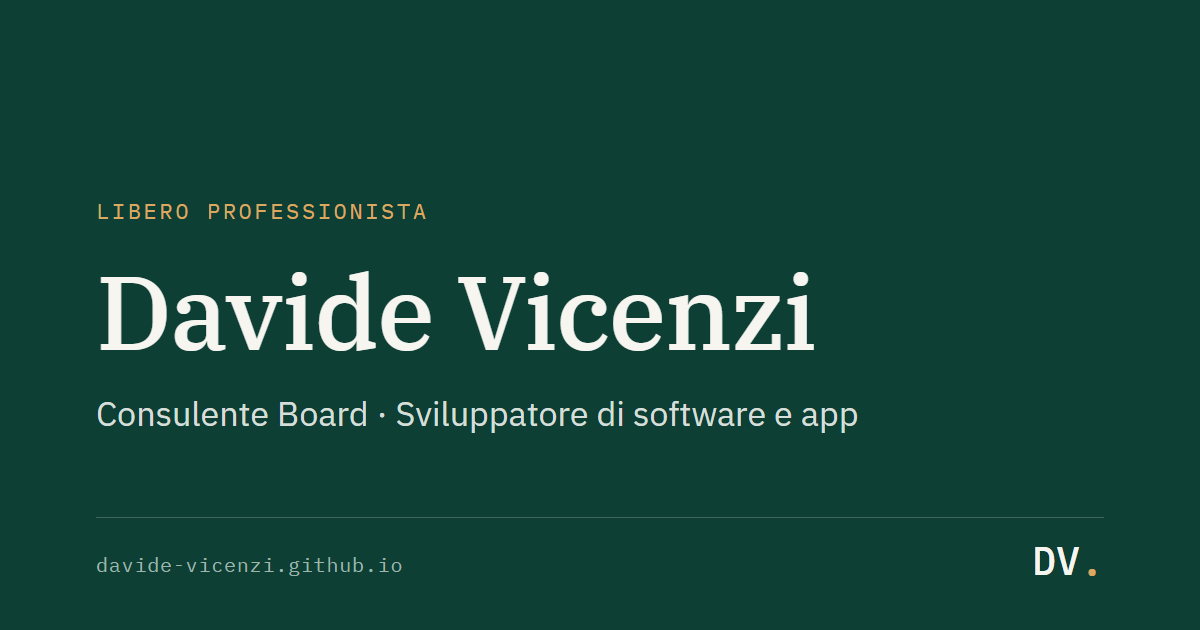
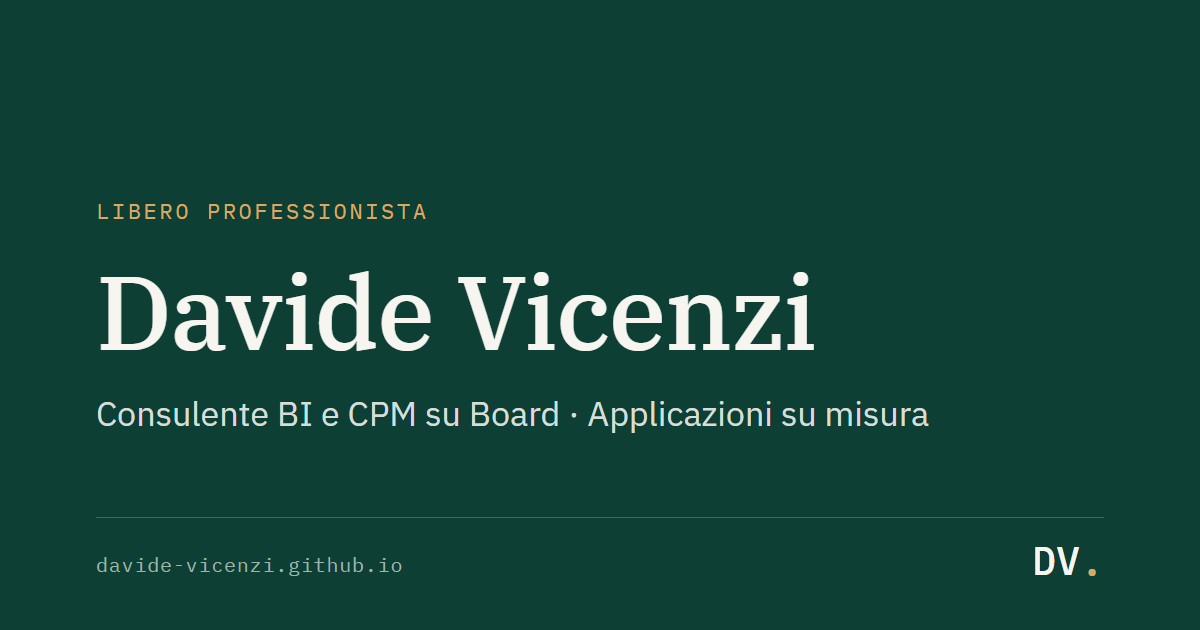
Riallinea i testi della home e l'immagine di anteprima al posizionamento

Changed region(s): [[0.2467, 0.6333, 0.7708, 0.6937]]

diff --git a/index.html b/index.html
@@ -3,21 +3,21 @@
 <head>
 <meta charset="UTF-8">
 <meta name="viewport" content="width=device-width, initial-scale=1.0">
-<title>Davide Vicenzi — Consulente Board e sviluppatore di software e app</title>
-<meta name="description" content="Davide Vicenzi, libero professionista: consulenza di Business Intelligence e Corporate Performance Management su piattaforma Board e sviluppo di software e app su misura.">
+<title>Davide Vicenzi — Consulenza BI e CPM su Board e applicazioni su misura</title>
+<meta name="description" content="Consulenza di Business Intelligence e Corporate Performance Management su Board. Come servizio complementare, applicazioni su misura per calcolo e gestione.">
 
 <!-- Open Graph / LinkedIn — l'immagine og-image.png va caricata nella root del repository GitHub -->
 <meta property="og:type"        content="website">
 <meta property="og:url"         content="https://davide-vicenzi.github.io/">
-<meta property="og:title"       content="Davide Vicenzi — Consulente Board e sviluppatore di software e app">
-<meta property="og:description" content="Consulenza di Business Intelligence e Corporate Performance Management su piattaforma Board e sviluppo di software e app su misura.">
+<meta property="og:title"       content="Davide Vicenzi — Consulenza BI e CPM su Board e applicazioni su misura">
+<meta property="og:description" content="Consulenza di Business Intelligence e Corporate Performance Management su Board. Come servizio complementare, applicazioni su misura per calcolo e gestione.">
 <meta property="og:image"       content="https://davide-vicenzi.github.io/og-image.png">
 <meta property="og:locale"      content="it_IT">
 
 <!-- Twitter / X Card -->
 <meta name="twitter:card"        content="summary_large_image">
-<meta name="twitter:title"       content="Davide Vicenzi — Consulente Board e sviluppatore di software e app">
-<meta name="twitter:description" content="Consulenza di Business Intelligence e Corporate Performance Management su piattaforma Board e sviluppo di software e app su misura.">
+<meta name="twitter:title"       content="Davide Vicenzi — Consulenza BI e CPM su Board e applicazioni su misura">
+<meta name="twitter:description" content="Consulenza di Business Intelligence e Corporate Performance Management su Board. Come servizio complementare, applicazioni su misura per calcolo e gestione.">
 <meta name="twitter:image"       content="https://davide-vicenzi.github.io/og-image.png">
 
 <!-- Favicon -->
@@ -90,20 +90,19 @@
           </div>
         </div>
 
-        <p class="eyebrow">Consulente Board — Sviluppatore di software e app</p>
+        <p class="eyebrow">Consulente BI e CPM su Board — Applicazioni su misura</p>
         <h1>Davide Vicenzi</h1>
         <p class="hero-lead">
-          Progetto soluzioni di pianificazione e Business Intelligence sulla piattaforma Board e sviluppo
-          software e app: applicazioni desktop, web e mobile, dagli strumenti per l'uso quotidiano ai
-          software di calcolo per l'industria. Con il metodo di un ingegnere: prima i numeri, poi
-          l'interfaccia.
+          Progetto soluzioni di pianificazione e Business Intelligence sulla piattaforma Board. Dove un
+          prodotto standard non basta, sviluppo applicazioni su misura che uniscono logica di calcolo e
+          gestione del lavoro. Con il metodo di un ingegnere: prima i numeri, poi l'interfaccia.
         </p>
         <div class="hero-cta">
-          <a class="btn btn-primary" href="#software">
-            Scopri software e app
+          <a class="btn btn-primary" href="#board">
+            Consulenza Board
             <svg class="icon icon-arrow" viewBox="0 0 24 24" aria-hidden="true"><path d="M5 12h14M13 6l6 6-6 6"/></svg>
           </a>
-          <a class="btn btn-outline" href="#board">Consulenza Board</a>
+          <a class="btn btn-outline" href="#software">Software e app</a>
         </div>
       </div>
 
@@ -137,21 +136,21 @@
     <div class="section-inner two-col">
       <div class="col-main reveal">
         <p class="eyebrow"><span class="eyebrow-num">01</span> Chi sono</p>
-        <h2>Board e software, con il metodo di un ingegnere</h2>
+        <h2>BI e CPM su Board, con il metodo di un ingegnere</h2>
 
         <div class="prose">
           <p>
-            Lavoro come libero professionista su due fronti. Il primo è la consulenza sulla piattaforma
-            Board: da gennaio 2026 collaboro con
+            Lavoro come libero professionista nella consulenza di Business Intelligence e Corporate
+            Performance Management sulla piattaforma Board: da gennaio 2026 collaboro con
             <a href="https://www.vspconsulting.it/" target="_blank" rel="noopener" class="inline-link"><strong>VSP Consulting</strong></a>
-            — partner ufficiale Board — su soluzioni di Business Intelligence e Corporate Performance
-            Management: modelli di budget e forecast, reportistica, dashboard.
+            — partner ufficiale Board — su modelli di budget e forecast, reportistica, dashboard.
           </p>
           <p>
-            Il secondo è lo sviluppo di software e app. Progetto e realizzo applicazioni desktop, web e
-            mobile: alcune nascono da un'esigenza personale e diventano prodotti, altre trasformano in
-            strumenti affidabili i calcoli che in azienda vivono ancora su fogli Excel. Le trovi nella
-            sezione <a href="#software" class="inline-link">Software &amp; App</a>.
+            Accanto alla consulenza sviluppo applicazioni su misura, come servizio complementare: portano
+            in un unico strumento la logica di calcolo e la gestione del lavoro che in azienda vivono
+            ancora su fogli Excel. Alcune nascono da un'esigenza personale e sono già in uso: le trovi
+            nella sezione <a href="#software" class="inline-link">Software &amp; App</a>. Altre sono
+            strumenti di calcolo ancora in sviluppo.
           </p>
           <p>
             Il metodo viene dall'ingegneria. Mi sono laureato in Ingegneria Chimica al Politecnico di
@@ -169,7 +168,7 @@
           <dl class="fact-list">
             <div class="fact-row">
               <dt>Attività</dt>
-              <dd>Consulenza Board · Sviluppo di software e app</dd>
+              <dd>Consulenza BI e CPM su Board · Applicazioni su misura</dd>
             </div>
             <div class="fact-row">
               <dt>Dal 2026</dt>
@@ -220,11 +219,11 @@
 
       <div class="case-grid reveal">
 
-        <article class="case-card">
+        <article class="case-card case-card-featured">
           <div class="case-card-head">
             <svg class="icon" viewBox="0 0 24 24" aria-hidden="true"><rect x="3.5" y="3.5" width="17" height="17" rx="1.5"/><path d="M3.5 9.5h17M9.5 9.5V21"/></svg>
             <div>
-              <p class="case-tag"><span class="case-tag-num">Ambito 01</span></p>
+              <p class="case-tag"><span class="case-tag-num">Ambito 01</span> <span class="case-badge">Focus strategico</span></p>
               <h4>BI, pianificazione e controllo di gestione su Board</h4>
             </div>
           </div>
@@ -239,11 +238,11 @@
           </dl>
         </article>
 
-        <article class="case-card case-card-featured">
+        <article class="case-card">
           <div class="case-card-head">
             <svg class="icon" viewBox="0 0 24 24" aria-hidden="true"><path d="M3.5 5.5h17v13h-17z"/><path d="M7 9.5l3 3-3 3M13 15.5h4"/></svg>
             <div>
-              <p class="case-tag"><span class="case-tag-num">Ambito 02</span> <span class="case-badge">Focus strategico</span></p>
+              <p class="case-tag"><span class="case-tag-num">Ambito 02</span></p>
               <h4>Sviluppo di applicazioni su misura</h4>
             </div>
           </div>
@@ -251,7 +250,7 @@
           <dl class="fact-list fact-list-case">
             <div class="fact-row"><dt>Contesto</dt><dd>Aziende che gestiscono calcoli tecnici, offerte o processi interni su fogli di calcolo separati, difficili da condividere e da verificare.</dd></div>
             <div class="fact-row"><dt>Obiettivo</dt><dd>Portare la logica di calcolo e la gestione del lavoro in un'unica applicazione, usabile da più persone.</dd></div>
-            <div class="fact-row"><dt>Attività</dt><dd>Analisi dei fogli e delle procedure esistenti; modellazione dei dati; sviluppo di applicazioni web, desktop e mobile; test automatici sui calcoli.</dd></div>
+            <div class="fact-row"><dt>Attività</dt><dd>Analisi dei fogli e delle procedure esistenti; modellazione dei dati; sviluppo dell'applicazione, con archivio, revisioni e controlli; test automatici sui calcoli.</dd></div>
             <div class="fact-row"><dt>Strumenti</dt><dd>JavaScript / Node.js, React e TypeScript, SQLite, Electron, Flutter.</dd></div>
             <div class="fact-row"><dt>Sfide tipiche</dt><dd>Tradurre in software una logica di calcolo nata per essere usata da una sola persona, rendendola affidabile e replicabile.</dd></div>
             <div class="fact-row"><dt>Risultato</dt><dd>Strumenti su misura, con storico delle revisioni e risultati ricostruibili nel tempo. Alcuni esempi sono nella sezione <a href="#software">Software &amp; App</a>.</dd></div>
@@ -286,17 +285,16 @@
          status-demo       "Su richiesta"  → "Richiedi una demo"     (#contatti)
          status-available  "Disponibile"   → "Scarica" verso
                            https://github.com/Davide-Vicenzi/<progetto>-releases/releases/latest
+         status-inuse      "In uso"        → nessuna azione principale: resta solo "Dettagli"
        Il link releases/latest punta sempre all'ultima versione: non va aggiornato a ogni release.
   ================================================= -->
   <section id="software" class="section software-section">
     <div class="section-inner">
       <header class="section-head reveal">
         <p class="eyebrow"><span class="eyebrow-num">03</span> Software &amp; App</p>
-        <h2>I software e le app a cui sto lavorando</h2>
+        <h2>Applicazioni che ho progettato e sviluppato</h2>
         <p class="section-lead">
-          Progetti che seguo dall'analisi al rilascio: app per l'uso quotidiano e strumenti di calcolo
-          per l'ingegneria. Sono in fase di test e diventeranno scaricabili da qui con la prima versione
-          stabile.
+          Sono gli esempi del servizio di sviluppo su misura, seguiti dall'analisi al rilascio.
         </p>
       </header>
 
@@ -374,12 +372,11 @@
 
         <div class="timeline-item">
           <span class="tag-mono">2026 — in corso</span>
-          <h4>Libero professionista — Consulenza Board e sviluppo software</h4>
+          <h4>Libero professionista — Consulenza BI e CPM su Board</h4>
           <p>
             Consulenza di Business Intelligence e Corporate Performance Management sulla piattaforma Board
-            in collaborazione con <a href="https://www.vspconsulting.it/" target="_blank" rel="noopener" class="inline-link">VSP Consulting</a>,
-            affiancata allo sviluppo di software e app. Seguo ancora, in forma ridotta, attività di
-            ingegneria di processo per un cliente storico.
+            in collaborazione con <a href="https://www.vspconsulting.it/" target="_blank" rel="noopener" class="inline-link">VSP Consulting</a>.
+            Come servizio complementare, sviluppo di applicazioni su misura.
           </p>
         </div>
 
@@ -457,7 +454,7 @@
             <li>Web 3.0</li>
             <li>EiPass — 7 moduli, Progressive e User</li>
           </ul>
-          <p class="cert-value">Basi di sviluppo web e strumenti digitali a supporto del lavoro sul software.</p>
+          <p class="cert-value">Strumenti digitali a supporto del lavoro sui dati e sul software.</p>
         </article>
 
         <article class="cert-card">
@@ -513,8 +510,8 @@
         <p class="eyebrow"><span class="eyebrow-num">05</span> Contatti</p>
         <h2>Parliamo del tuo progetto</h2>
         <p class="section-lead">
-          Per una consulenza su Board, un software su misura, la demo di uno dei miei strumenti o anche solo
-          per un primo confronto tecnico, compila il modulo oppure scrivimi direttamente.
+          Per una consulenza su Board, un'applicazione su misura, la demo di uno dei miei strumenti o anche
+          solo per un primo confronto tecnico, compila il modulo oppure scrivimi direttamente.
         </p>
       </header>
 
